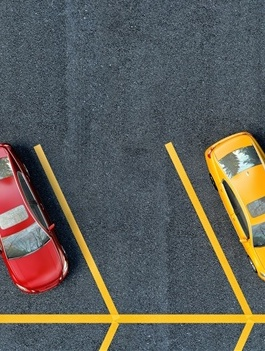
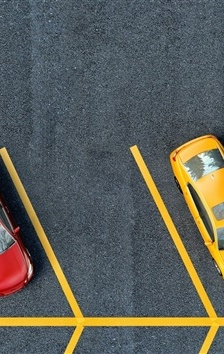
updates to listing

diff --git a/src/app/list/list.component.scss b/src/app/list/list.component.scss
@@ -141,6 +141,7 @@ font-weight:bold;
   height: 100%;
   width: 100%;
   background-image: url('../../assets/parking.jpg');
+  background-size: cover; 
   background-repeat: no-repeat;
 transition: all 0.3s ease;
 }.titleDiv {
@@ -190,4 +191,138 @@ background-size:cover;
   display:block;
 }
 
+}
+
+#textAnim {
+  margin-bottom: -50px;
+}
+
+
+// .container {
+//   display: flex;
+//   justify-content: center;
+//   align-content: center;
+//   flex-direction: column;
+//   height: 100vh;
+//   width: 100vw;
+//   background: #333;
+// }
+
+h1 {
+  text-align: center;
+}
+
+.animation {
+  text-align: center;
+  text-transform: uppercase;
+  font-family: Helvetica, Arial, sans-serif;
+  font-size: 50px;
+  letter-spacing: 1px;
+  color: #fff;
+  display: inline-block;
+  animation: fadeIn 1.5s forwards;
+  opacity: 0;
+  transition-timing-function: cubic-bezier(0.785, 0.135, 0.15, 0.86);
+}
+
+.first {
+  display: inline-block;
+  animation: firstSpan 1.5s forwards cubic-bezier(0.785, 0.135, 0.15, 0.86);
+  background: #222222;
+  z-index: 1;
+  position: relative;
+}
+
+.oh {
+  display: inline-flex;
+  overflow: hidden;
+  margin-left: 20px;
+}
+
+.second {
+  animation: secondSpan 1.5s forwards cubic-bezier(0.785, 0.135, 0.15, 0.86);
+  font-weight: 100;
+  z-index: -1;
+  display: inline-block;
+}
+
+@keyframes fadeIn {
+  0% {
+    opacity: 0;
+    transform: scale(1);
+  } 
+  50% {
+    opacity: 1;
+    transform: scale(1.1);
+  }
+  100% {
+    transform: scale(1);
+    opacity: 1;
+  }
+}
+
+@keyframes firstSpan {
+  0% {
+    transform: translateX(50%);
+  }
+  60% {
+    transform: translateX(50%);
+  }
+  100% {
+    transform: translateX(0%);
+  }
+}
+
+@keyframes secondSpan {
+  0% {
+    transform: translateY(-100%);
+  }
+  60% {
+    transform: translateY(-100%);
+  }
+  100% {
+    transform: translateY(-0%);
+  }
+}
+
+
+/* Linkedin href */
+a {
+  position: fixed;
+  bottom: 20px;
+  right: 25px;
+  transition: 0.2s;
+  animation: slideLeft 1.5s forwards;
+  z-index: 10;
+}
+
+a:after {
+  content: "";
+  position: absolute;
+  margin: 0 auto;
+  left: 0;
+  right: 0;
+  bottom: 0;
+  width: 0%;
+  height: 2px;
+  background: #fff;
+  transition: 0.2s;
+ }
+  
+a:hover {
+    opacity: 0.8;
+}    
+a:hover::after {
+  width: 100%; 
+}
+
+@keyframes slideLeft {
+  from {
+    opacity: 0;
+    transform: translateX(200px);
+  } 
+  to {
+    opacity: 1;
+    transform: translateX(0%);
+  }
 }

diff --git a/src/app/list/list.component.html b/src/app/list/list.component.html
@@ -1,7 +1,18 @@
 <meta charset="utf-8">
 
 <body>
-    <p id=title>Listing is simple</p>
+
+
+   
+            <h1 id="textAnim">
+              <div class="animation">
+                <span class="first">Listing </span> 
+                <span class="oh">
+                  <span class="second">Made Simple</span>
+                </span>
+              </div>
+            </h1>
+  
 
     <div class="loginContainer row shadow">
         <div class="col-md-4 p-0">

diff --git a/src/app/account/account.component.ts b/src/app/account/account.component.ts
@@ -19,7 +19,7 @@ export class AccountComponent implements OnInit {
     let jwtData = token.split('.')[1]
     let decodedJwtJsonData = window.atob(jwtData)
     let decodedJwtData = JSON.parse(decodedJwtJsonData)
-
+    console.log(decodedJwtData);
     this.userData = decodedJwtData.email;
 
  
